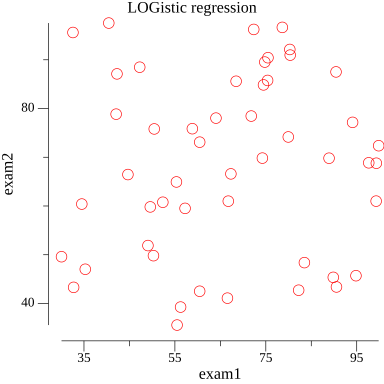
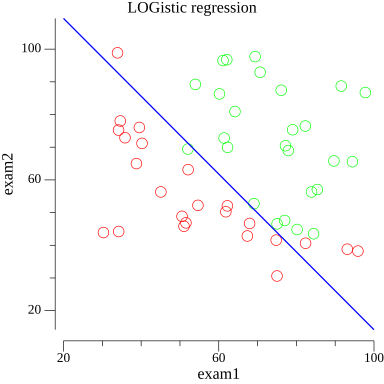
drawing somewhat done

diff --git a/main.go b/main.go
@@ -2,18 +2,16 @@ package main
 
 import (
 	"encoding/csv"
-	"image/color"
-	"image"
 	"fmt"
+	"image/color"
 	"log"
 	"math"
 	"math/rand"
 	"os"
 	"strconv"
+
 	"gonum.org/v1/plot"
 	"gonum.org/v1/plot/plotter"
-	"gonum.org/v1/plot/vg/draw"
-	"gonum.org/v1/plot/vg/vgimg"
 	"gonum.org/v1/plot/vg"
 )
 
@@ -87,9 +85,8 @@ func accuracy(inputs [][]float64, y []float64, w []float64, b float64) float64 {
 	return (truePos + trueNeg) / (truePos + trueNeg + falsePos + falseNeg)
 }
 
-func split(data [][]string) (xTrain, xTest [][]float64, yTrain, yTest []float64, draw plotter.XYs) {
+func split(data [][]string) (xTrain, xTest [][]float64, yTrain, yTest []float64) {
 	half := len(data) / 2
-	draw = make(plotter.XYs, half)
 	segment := len(data[0])
 	xTrain = make([][]float64, half)
 	for i := range xTrain {
@@ -113,13 +110,11 @@ func split(data [][]string) (xTrain, xTest [][]float64, yTrain, yTest []float64,
 	for i, row := range data[half:] {
 		for j := 0; j < 2; j++ {
 			xTest[i][j], _ = strconv.ParseFloat(row[j], 64)
-			draw[i].X, _ = strconv.ParseFloat(row[0], 64)
-			draw[i].Y, _ = strconv.ParseFloat(row[1], 64)
 		}
 		yTest[i], _ = strconv.ParseFloat(row[2], 64)
 	}
 	//fmt.Println(xTrain, xTest, yTrain, yTest)
-	return xTrain, xTest, yTrain, yTest, draw
+	return xTrain, xTest, yTrain, yTest
 }
 
 func main() {
@@ -138,12 +133,12 @@ func main() {
 	p := plot.New()
 	var dw []float64
 	var db float64
-	xTrain, xTest, yTrain, yTest, draw := split(data)
+	xTrain, xTest, yTrain, yTest := split(data)
 	w := make([]float64, len(xTrain[0]))
 	for i := range w {
-		w[i] = rand.Float64()*2
+		w[i] = rand.Float64() * 2
 	}
-	b := rand.Float64() *2
+	b := rand.Float64() * 2
 	alpha := 1e-3
 	epochs := 100000
 	// Output formatting
@@ -155,31 +150,42 @@ func main() {
 	score := accuracy(xTest, yTest, w, b)
 	fmt.Printf("Score: %v\n", score)
 	// drawing
-	scatter, err := plotter.NewScatter(draw)
+	var drawR, drawG plotter.XYs
+	for i := 0; i < len(yTrain); i++ {
+		if yTrain[i] == 0 {
+			drawR = append(drawR, struct{ X, Y float64 }{X: xTrain[i][0], Y: xTrain[i][1]})
+		} else {
+			drawG = append(drawG, struct{ X, Y float64 }{X: xTrain[i][0], Y: xTrain[i][1]})
+		}
+	}
+
+	scatterR, err := plotter.NewScatter(drawR)
 	if err != nil {
 		panic(err)
 	}
-	scatter.GlyphStyle.Color = color.RGBA{R: 255, A: 255}
-	scatter.GlyphStyle.Radius = vg.Points(4)
-	// Add the scatter plot to the plot and set the axes labels
-	p.Add(scatter)
+	scatterR.GlyphStyle.Color = color.RGBA{R: 255, A: 255}
+	scatterR.GlyphStyle.Radius = vg.Points(4)
+	p.Add(scatterR)
+
+	scatterG, err := plotter.NewScatter(drawG)
+	if err != nil {
+		panic(err)
+	}
+	scatterG.GlyphStyle.Color = color.RGBA{G: 255, A: 255}
+	scatterG.GlyphStyle.Radius = vg.Points(4)
+	p.Add(scatterG)
+
+	line, _ := plotter.NewLine(plotter.XYs{
+		{X: 20, Y: (-w[0]*20 - b) / w[1]},
+		{X: 100, Y: (-w[0]*100 - b) / w[1]}})
+	line.Color = color.RGBA{B: 255, A: 255}
+	p.Add(line)
+
 	p.Title.Text = "LOGistic regression"
 	p.X.Label.Text = "exam1"
 	p.Y.Label.Text = "exam2"
 
-// Save the plot to a PNG file
-if err := p.Save(4*vg.Inch, 4*vg.Inch, "scatter.png"); err != nil {
-    panic(err)
-}
-}
-
-func Plot(ps ...plot.Plotter) *image.RGBA {
-	p := plot.New()
-	p.Add(append([]plot.Plotter{
-		plotter.NewGrid(),
-	}, ps...)...)
-	img := image.NewRGBA(image.Rect(0, 0, 640, 480))
-	c := vgimg.NewWith(vgimg.UseImage(img))
-	p.Draw(draw.New(c))
-	return c.Image().(*image.RGBA)
+	if err := p.Save(4*vg.Inch, 4*vg.Inch, "scatter.png"); err != nil {
+		panic(err)
+	}
 }

diff --git a/main_test.go b/main_test.go
@@ -151,7 +151,7 @@ func TestSplit(t *testing.T) {
 	}
 	yTestExpected := []float64{9, 12}
 
-	xTrain, xTest, yTrain, yTest,_ := split(data)
+	xTrain, xTest, yTrain, yTest := split(data)
 
 	if !reflect.DeepEqual(xTrain, xTrainExpected) {
 		t.Errorf("Expected xTrain to be %v, but got %v", xTrainExpected, xTrain)
